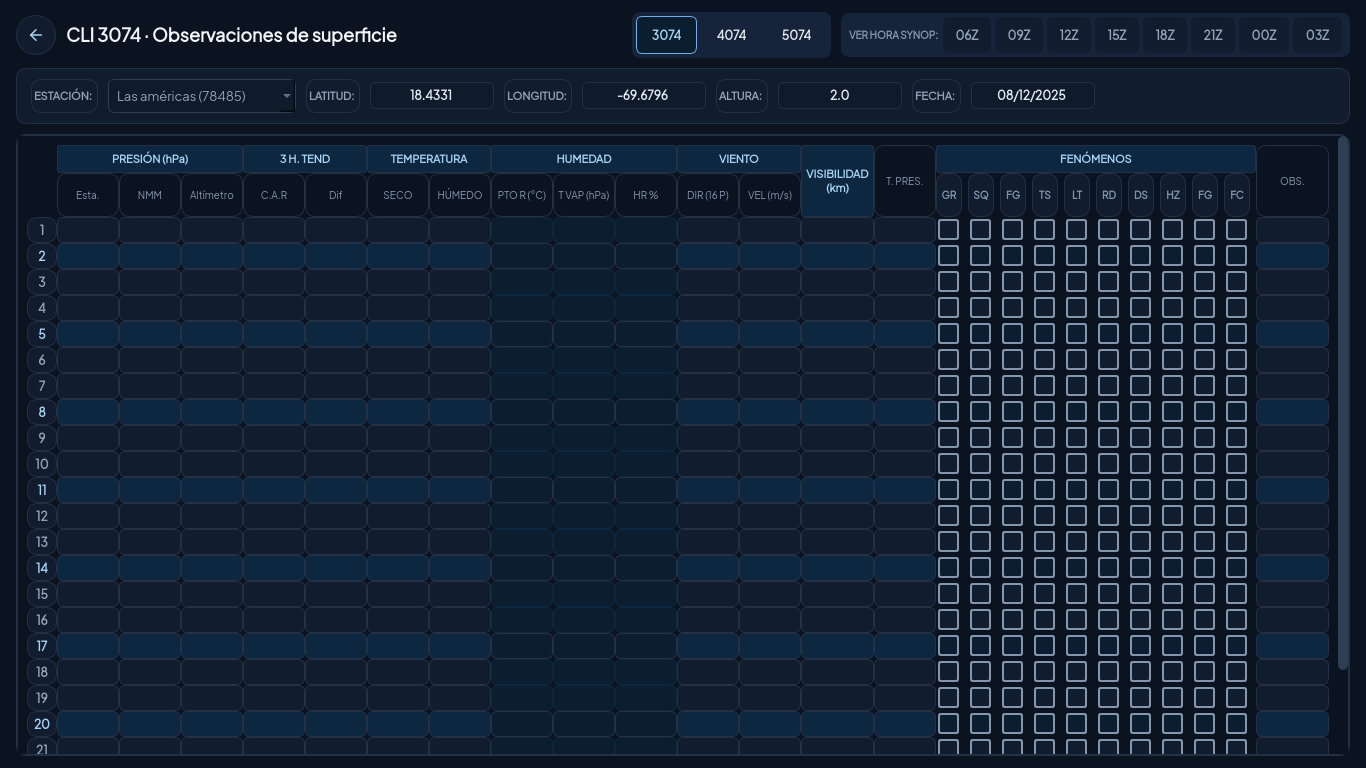
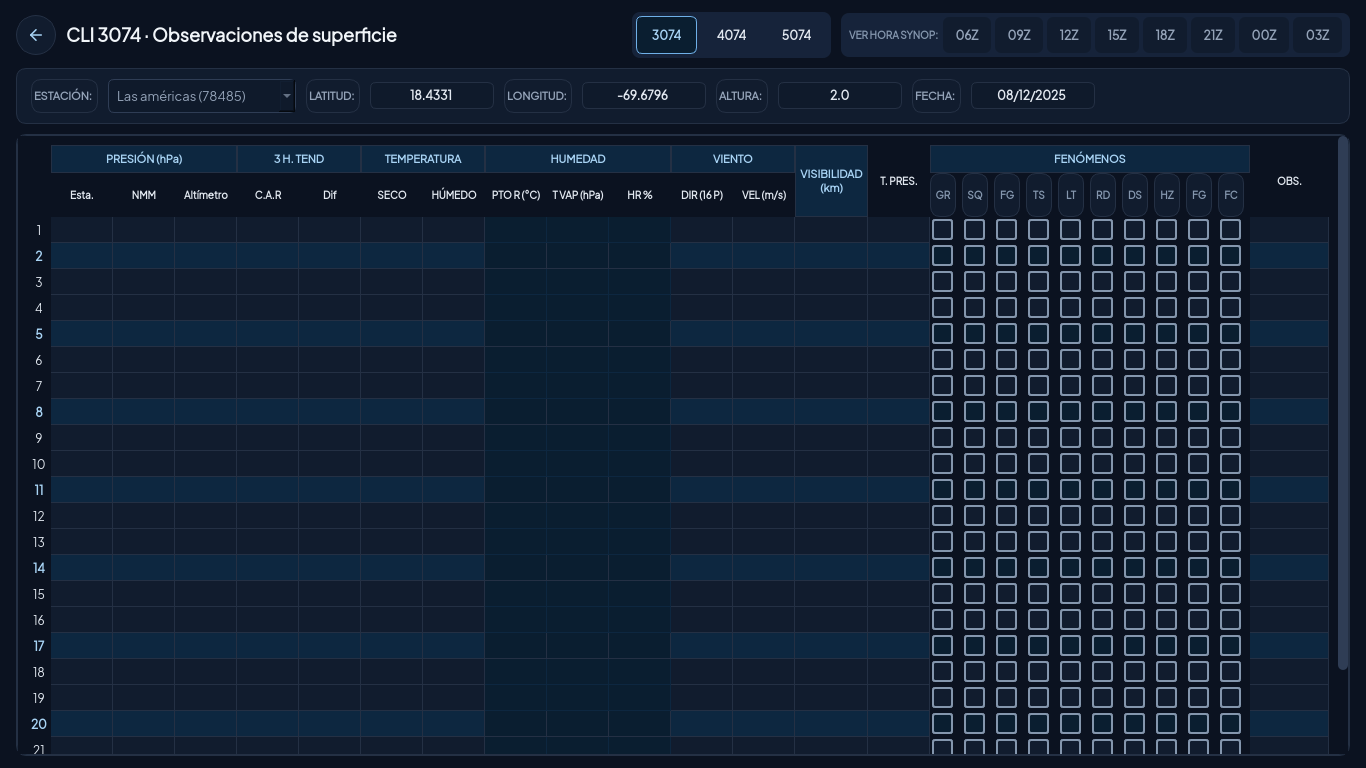
fix(cli): la forma de la grilla sale del mockup, no de cajas
Revisé el mockup y la captura con el mismo método de píxeles, y el problema no
era el tamaño de las celdas (ya coincidía, ~60×25) sino lo que las rodeaba:

- **Celdas**: radio 0 y una sola línea de 1 px a la derecha y abajo. Antes cada
  celda dibujaba sus cuatro lados y los vecinos se superponían, así que se veían
  como cajas separadas.
- **Números de fila**: texto, sin píldora. Un contorno heredado los rodeaba; se
  corrige con hoja propia y `border: none`. La 2, 5, 8… (horas principales)
  llevan el acento.
- **Subencabezados** (`Esta.`, `Cant`, `Tipo`…): texto oscuro sin borde ni
  relleno. Tenían un borde heredado que los encerraba.
- **Encabezados de grupo**: conservan su fondo de color por módulo pero con
  esquinas rectas, como el mockup.

**Contraste (el defecto grave).** En el 4074 el texto de los encabezados tenía el
mismo color que el fondo (1,0:1): las letras existían pero no se veían. La causa
fue pasar el gris oscuro como fondo y reutilizar el verde oscuro como texto. Ahora
cada módulo tiene fondo tintado y texto fuerte. El 5074 tenía el mismo defecto con
el rojo y se corrige igual.

Para el rojo sobre su tinte hacía falta un rol nuevo, `error_texto`: el rojo
fuerte daba 3,95:1 sobre su propio tinte. Claro `#991b1b` (6,80:1), oscuro
`#fca5a5` (8,53:1). Los chips rojos del 5074 pasan a texto `sobre_acento`, que en
oscuro daba 3,05:1 con el claro.

**Verificación.** Un medidor recorre las etiquetas de los tres CLI y mide el
[…]

diff --git a/oms_ui/pages/cli3074.py b/oms_ui/pages/cli3074.py
@@ -99,13 +99,13 @@ _MAIN_STICKY_TINT = "$acento_suave"   # celdas de número fijo
 #: oscura, para que se lea en los dos temas (forma del mockup).
 _HEADER_QSS = (
     "background-color: {color}; color: {text}; font-weight: 800;"
-    "font-size: 11px; padding: 6px 4px; border-radius: 3px;"
+    "font-size: 11px; padding: 6px 4px; border-radius: 0px;"
 )
 _DEFAULT = {"color": "$acento_suave", "text": "$acento_texto"}
 #: Sub-encabezado: texto gris, sin relleno.
 _SUB_HEADER_QSS = (
-    "background-color: transparent; color: $suave_alt; font-weight: 600;"
-    "font-size: 10px; padding: 2px;"
+    "background-color: transparent; border: none; border-radius: 0px;"
+    "color: $texto; font-weight: 700; font-size: 10px; padding: 2px;"
 )
 INPUT_QSS = (
     "QLineEdit { background-color: $superficie; border: 1px solid $borde;"
@@ -145,18 +145,18 @@ _MAIN_CHECKBOX_QSS = (
 #: ("main"/"sub") and ``ro`` for read-only, so Qt parses the rules once instead
 #: of 400 times: per-widget setStyleSheet measured 48% of the build time.
 _SHEET_QSS = """
-QLineEdit[row="sub"] { background-color: $superficie; border: 1px solid $borde;
-    color: $texto; font-size: 12px; padding: 3px 4px; }
+QLineEdit[row="sub"] { background-color: $superficie; border: none; border-bottom: 1px solid $borde; border-right: 1px solid $borde;
+    color: $texto; font-size: 12px; padding: 3px 4px; border-radius: 0px; }
 QLineEdit[row="sub"]:focus { border-color: $acento; background-color: $acento_fondo; }
 QLineEdit[row="sub"][ro="true"] { background-color: $acento_fondo;
-    border: 1px solid $acento_suave; color: $acento_texto; font-weight: bold;
-    font-size: 12px; padding: 3px 4px; }
-QLineEdit[row="main"] { background-color: $acento_suave; border: 1px solid $borde;
-    color: $texto; font-size: 12px; padding: 3px 4px; }
+    border: none; border-bottom: 1px solid $acento_suave; border-right: 1px solid $acento_suave; color: $acento_texto; font-weight: bold;
+    font-size: 12px; padding: 3px 4px; border-radius: 0px; }
+QLineEdit[row="main"] { background-color: $acento_suave; border: none; border-bottom: 1px solid $borde; border-right: 1px solid $borde;
+    color: $texto; font-size: 12px; padding: 3px 4px; border-radius: 0px; }
 QLineEdit[row="main"]:focus { border-color: $acento; background-color: $superficie; }
 QLineEdit[row="main"][ro="true"] { background-color: $acento_fondo;
-    border: 1px solid $borde; color: $acento_texto; font-weight: bold;
-    font-size: 12px; padding: 3px 4px; }
+    border: none; border-bottom: 1px solid $borde; border-right: 1px solid $borde; color: $acento_texto; font-weight: bold;
+    font-size: 12px; padding: 3px 4px; border-radius: 0px; }
 /* base rules first, attribute overrides after: Qt matches the subcontrol
    rules only when the base `::indicator` block exists */
 QCheckBox { background-color: transparent; }
@@ -171,12 +171,10 @@ QCheckBox#checkMain::indicator:checked { background-color: $acento; }
    here while they do on QLineEdit, and a silently unstyled header is worse
    than a slightly longer selector */
 QLabel { background: transparent; }
-QLabel#hourMain { background-color: $acento_suave; color: $acento_texto;
-    font-weight: bold; font-size: 12px; padding: 4px 6px;
-    border-radius: 3px; }
-QLabel#hourSub { background-color: $panel; color: $suave;
-    font-weight: bold; font-size: 12px; padding: 4px 6px;
-    border-radius: 3px; }
+QLabel#hourMain { background: transparent; color: $acento_texto;
+    font-weight: 800; font-size: 12px; padding: 2px 4px; border: none; border-radius: 0px; }
+QLabel#hourSub { background: transparent; color: $texto;
+    font-weight: 600; font-size: 12px; padding: 2px 4px; border: none; border-radius: 0px; }
 """
 
 _SAVE_QSS = (
@@ -529,6 +527,14 @@ class Cli3074View(QWidget):
         hour_label = QLabel(str(row))
         hour_label.setAlignment(Qt.AlignmentFlag.AlignCenter)
         hour_label.setObjectName("hourMain" if main else "hourSub")
+        # Número de fila como texto, sin caja (mockup). Hoja propia: sin ella
+        # Qt dibujaba el contorno heredado y quedaba una píldora.
+        hour_label.setStyleSheet(_qss(
+            "background: transparent; border: none; border-radius: 0px;"
+            + ("color: $acento_texto; font-weight: 800;" if main else
+               "color: $texto; font-weight: 600;")
+            + " font-size: 12px; padding: 2px 4px;"
+        ))
         grid.addWidget(hour_label, row + 1, 0)
 
         self.row_inputs.setdefault(row, {})

diff --git a/oms_ui/pages/cli4074.py b/oms_ui/pages/cli4074.py
@@ -67,16 +67,16 @@ _ROWSPAN_FIELDS: tuple[tuple[str, str, str], ...] = (
 #: ONE stylesheet for the sheet: each cell carries ``row`` ("main"/"sub") and
 #: ``ro`` so Qt parses the rules once instead of ~350 times.
 _SHEET_QSS = """
-QLineEdit[row="sub"] { background-color: $superficie; border: 1px solid $borde;
-    color: $texto; font-size: 12px; padding: 3px 4px; }
+QLineEdit[row="sub"] { background-color: $superficie; border: none; border-bottom: 1px solid $borde; border-right: 1px solid $borde;
+    color: $texto; font-size: 12px; padding: 3px 4px; border-radius: 0px; }
 QLineEdit[row="sub"]:focus { border-color: $acento; background-color: $acento_fondo; }
-QLineEdit[row="main"] { background-color: $ok_fondo; border: 1px solid $ok_borde;
-    color: $texto; font-size: 12px; padding: 3px 4px; }
+QLineEdit[row="main"] { background-color: $ok_fondo; border: none; border-bottom: 1px solid $ok_borde; border-right: 1px solid $ok_borde;
+    color: $texto; font-size: 12px; padding: 3px 4px; border-radius: 0px; }
 QLineEdit[row="main"]:focus { border-color: $ok; background-color: $superficie; }
 QLineEdit[row="main"][ro="true"] { background-color: $ok_borde;
-    border: 1px solid $ok; color: $ok_texto; font-weight: 600; }
+    border: none; border-bottom: 1px solid $ok; border-right: 1px solid $ok; color: $ok_texto; font-weight: 600; }
 QLineEdit[row="sub"][ro="true"] { background-color: $panel_alt;
-    border: 1px solid $borde; color: $suave; }
+    border: none; border-bottom: 1px solid $borde; border-right: 1px solid $borde; color: $suave; }
 """
 
 _TEMPS: tuple[tuple[str, str], ...] = (("temp_max", "Máx"), ("temp_min", "Mín"))
@@ -111,13 +111,13 @@ INPUT_QSS = (
 #: oscura, para que se lea en los dos temas (forma del mockup).
 _HEADER_QSS = (
     "background-color: {color}; color: {text}; font-weight: 800;"
-    "font-size: 11px; padding: 6px 4px; border-radius: 3px;"
+    "font-size: 11px; padding: 6px 4px; border-radius: 0px;"
 )
 _DEFAULT = {"color": "$ok_fondo", "text": "$ok_texto"}
 #: Sub-encabezado: texto gris, sin relleno.
 _SUB_HEADER_QSS = (
-    "background-color: transparent; color: $suave_alt; font-weight: 600;"
-    "font-size: 10px; padding: 2px;"
+    "background-color: transparent; border: none; border-radius: 0px;"
+    "color: $texto; font-weight: 700; font-size: 10px; padding: 2px;"
 )
 _SAVE_QSS = (
     "QPushButton { background-color: $acento; color: $sobre_acento;"
@@ -236,7 +236,7 @@ class Cli4074View(QWidget):
             header = QLabel(text)
             header.setAlignment(Qt.AlignmentFlag.AlignCenter)
             header.setWordWrap(True)
-            header.setStyleSheet(_qss(_HEADER_QSS.format(color=color, text="$ok_texto")))
+            header.setStyleSheet(_qss(_HEADER_QSS.format(color="$ok_fondo", text="$ok_texto")))
             grid.addWidget(header, 0, at_col, 2, 1)  # full header height
 
         def group_header(at_col: int, text: str, color: str,
@@ -244,11 +244,11 @@ class Cli4074View(QWidget):
             header = QLabel(text)
             header.setAlignment(Qt.AlignmentFlag.AlignCenter)
             header.setWordWrap(True)
-            header.setStyleSheet(_qss(_HEADER_QSS.format(color=color, text="$ok_texto")))
+            header.setStyleSheet(_qss(_HEADER_QSS.format(color="$ok_fondo", text="$ok_texto")))
             grid.addWidget(header, 0, at_col, 1, span)
             for offset, (field, sub) in enumerate(fields):
                 if field in TOTAL_FIELDS:  # full height + emerald, like N
-                    rowspan_header(sub, _qss("$ok_texto"), at_col + offset)
+                    rowspan_header(sub, "$ok_borde", at_col + offset)
                     continue
                 sub_label = QLabel(sub)
                 sub_label.setAlignment(Qt.AlignmentFlag.AlignCenter)
@@ -274,7 +274,7 @@ class Cli4074View(QWidget):
             number.setAlignment(Qt.AlignmentFlag.AlignCenter)
             main = (row - 2) % 3 == 0
             number.setStyleSheet(_qss(
-                f"background-color: {_qss(_MAIN_STICKY) if main else _qss('$panel')};"
+                "background-color: transparent; border: none; border-radius: 0px;"
                 f"color: {_qss(_MAIN_NUMBER) if main else _qss('$suave')}; font-weight: bold;"
                 "font-size: 12px; padding: 4px 5px;"
             ))

diff --git a/oms_ui/pages/cli5074.py b/oms_ui/pages/cli5074.py
@@ -92,7 +92,7 @@ _FENO_GROUPS: tuple[tuple[str, str, str, tuple[tuple[str, str], ...]], ...] = (
 
 #: owner round 12: unit sub-headers (mm)/(°C) speak the module's red.
 _UNIT_RED_QSS = (
-    "background-color: $error_fuerte; color: $banda_texto; font-weight: 600;"
+    "background-color: $error_fuerte; color: $sobre_acento; font-weight: 600;"
     "font-size: 10px; padding: 4px 2px;"
 )
 _SECTION_QSS = (
@@ -113,8 +113,8 @@ _HEADER_QSS = (
 _DEFAULT = {"color": "$error_suave", "text": "$error_fuerte"}
 #: Sub-encabezado: texto gris, sin relleno.
 _SUB_HEADER_QSS = (
-    "background-color: transparent; color: $suave_alt; font-weight: 600;"
-    "font-size: 10px; padding: 2px;"
+    "background-color: transparent; border: none; border-radius: 0px;"
+    "color: $texto; font-weight: 700; font-size: 10px; padding: 2px;"
 )
 _INPUT_QSS = (
     "QLineEdit { background-color: $superficie; border: 1px solid $borde;"
@@ -315,12 +315,12 @@ class Cli5074View(QWidget):
         card_layout.addLayout(grid)
         corner = QLabel("HORA LOCAL")
         corner.setAlignment(Qt.AlignmentFlag.AlignCenter)
-        corner.setStyleSheet(_qss(_HEADER_QSS.format(color="$error_fuerte", text="$error_fuerte")))
+        corner.setStyleSheet(_qss(_HEADER_QSS.format(color="$error_suave", text="$error_texto")))
         grid.addWidget(corner, 0, 0)
         for col_index, row in enumerate(_HOURLY_ROWS):
             head = QLabel(str(row))
             head.setAlignment(Qt.AlignmentFlag.AlignCenter)
-            head.setStyleSheet(_qss(_HEADER_QSS.format(color="$error_fuerte", text="$error_fuerte")))
+            head.setStyleSheet(_qss(_HEADER_QSS.format(color="$error_suave", text="$error_texto")))
             grid.addWidget(head, 0, 1 + col_index)
         self.hour_inputs: dict[int, dict[str, QLineEdit]] = {}
         for row_index, (field, label) in enumerate(_HOURLY_FIELDS):
@@ -432,7 +432,7 @@ class Cli5074View(QWidget):
             header = QLabel(text)
             header.setAlignment(Qt.AlignmentFlag.AlignCenter)
             header.setWordWrap(True)
-            header.setStyleSheet(_qss(_HEADER_QSS.format(color=color, text="$error_fuerte")))
+            header.setStyleSheet(_qss(_HEADER_QSS.format(color="$error_suave", text="$error_texto")))
             # sin subtítulo el header abarca ambas filas: sin hueco debajo
             feno_grid.addWidget(header, 0, col, 2 if no_sub else 1, span)
             for offset, (field, sub) in enumerate(fields):

diff --git a/tests/test_f4_ui.py b/tests/test_f4_ui.py
@@ -1354,7 +1354,9 @@ def test_cli5074_red_only_where_it_speaks(cli3074_page, qtbot):
                if w.text() == "INICIO (HH:MM)")
     fin = next(w for w in view.findChildren(QLabel)
                if w.text() == "FINAL (HH:MM)")
-    assert rojo in ini.styleSheet() and rojo in fin.styleSheet()
+    # identidad roja en las cabeceras: tinte de error con texto de error
+    assert theme.palette_actual()["error_texto"] in ini.styleSheet()
+    assert theme.palette_actual()["error_texto"] in fin.styleSheet()
     # station/fecha card: NO module color at all
     card = view.station_combo.parentWidget()
     assert rojo not in card.styleSheet()
@@ -1427,8 +1429,8 @@ def test_cli5074_red_accent_map(cli3074_page, qtbot):
     by_text = {}
     for w in view.findChildren(QLabel):
         by_text.setdefault(w.text(), w.styleSheet())
-    assert rojo in by_text["FINAL (HH:MM)"]
-    assert rojo in by_text["INICIO (HH:MM)"]
+    assert theme.palette_actual()["error_texto"] in by_text["FINAL (HH:MM)"]
+    assert theme.palette_actual()["error_texto"] in by_text["INICIO (HH:MM)"]
     assert rojo in by_text["(°C)"]          # subsuelo unit chip
     assert rojo in by_text["(mm)"]          # evap unit chips
     assert "PUNTO DE ROCÍO (°C)" not in by_text   # removed with the block

diff --git a/oms_ui/theme.py b/oms_ui/theme.py
@@ -60,6 +60,7 @@ PALETTE_CLARO: dict[str, str] = {
     "error": "#ef4444",
     "error_fuerte": "#dc2626",
     "error_suave": "#fee2e2",
+    "error_texto": "#991b1b",
     "ok": "#16a34a",
     "ok_fuerte": "#15803d",
     "ok_fondo": "#dcfce7",
@@ -107,6 +108,7 @@ PALETTE_OSCURO: dict[str, str] = {
     "error": "#f87171",
     "error_fuerte": "#ef4444",
     "error_suave": "#3b1416",
+    "error_texto": "#fca5a5",
     "ok": "#4ade80",
     "ok_fuerte": "#22c55e",
     "ok_fondo": "#12281c",
